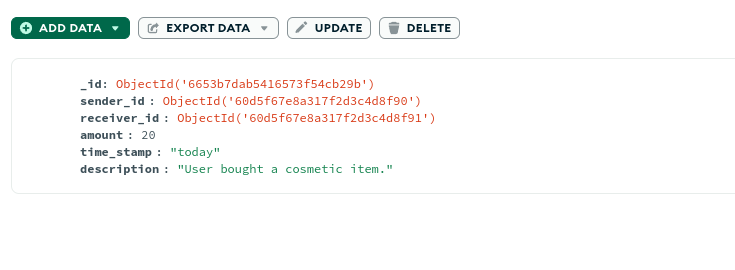
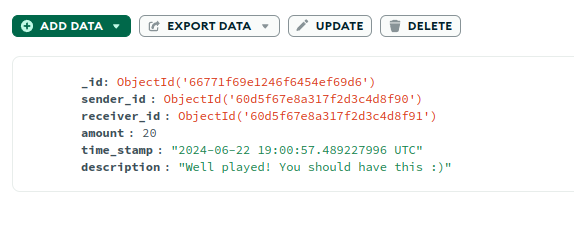
Development fase done

Changed region(s): [[0.0889, 0.487, 0.7997, 0.7609], [0.0889, 0.2739, 0.7404, 0.4565], [0.0, 0.0609, 0.7997, 0.1826]]

diff --git a/src/components/TimeLine/items/ontwikkelFase/transacionStruct.js b/src/components/TimeLine/items/ontwikkelFase/transacionStruct.js
@@ -7,12 +7,19 @@ const manager = new ItemManager;
 
 const paragraphs = [
     "De transaction service zal op zijn minst in staat moeten zijn om transacties aan te maken en op te halen.\
-    Het aanpassen en verwijderen van transacties is een andere kwestie.",
+    Het aanpassen en verwijderen van transacties is een andere kwestie. Hier zijn we al eerder op ingedoken bij \
+    'Analyse fase > Misuse case preventie'",
+    
     "De mogelijkheid om transacties aan te passen of zelfs helemaal te verwijderen zou de transactie geschiedenis \
     onbetrouwbaar maken. Mocht er echt een transactie zijn die verwijderd/aangepast moet worden, dan kan dit probleem ook \
     worden opgelost door een nieuwe transactie aan te maken.",
-    "Tot slot moet de transaction service ook in staat zijn een gebruiker zijn/haar huidige balans uit te rekenen aan \
-    de hand van de transactie geschiedenis."
+    
+    "Verder moet de transaction service ook in staat zijn een gebruiker zijn/haar huidige balans uit te rekenen aan \
+    de hand van de transactie geschiedenis. Alleen dan kan verzekerd worden dat gebruikers geen credits kunnen uitgeven \
+    die zij eigenlijk niet bezitten.",
+    
+    "Tot slot moet de transaction service alle verzoeken voor het maken van een nieuwe request controleren op de 'timestamp'. \
+    Zo kan verzekerd worden dat het zelfde request verzoek niet meerdere malen verstuurd kan worden.",
 ];
 
 const item = manager.createItemFromProps(

diff --git a/src/components/TimeLine/index.jsx b/src/components/TimeLine/index.jsx
@@ -15,6 +15,7 @@ import MogelijkeAanpassingen from './items/designFase/mogelijkeAanpassingen';
 import OntwikkelIntro from './items/ontwikkelFase/ontwikkelIntro';
 import TransactionStruct from './items/ontwikkelFase/transacionStruct';
 import TransactionDBEntry from './items/ontwikkelFase/transactionEntry';
+import TransactionPostModel from './items/ontwikkelFase/transactionPostModel';
 
 import TestingIntro from './items/testFase/intro';
 import UnitTesting from './items/testFase/unitTesting';
@@ -44,6 +45,7 @@ export default function TimeLine() {
         MogelijkeAanpassingen,
         OntwikkelIntro,
         TransactionStruct,
+        TransactionPostModel,
         TransactionDBEntry,
         
         TestingIntro,
@@ -68,7 +70,7 @@ export default function TimeLine() {
                 theme={{
                     primary: '#88D498',
                     secondary: '#1A936F',
-                    cardBgColor: 'white',
+                    cardBgColor: '#F5F5F5',
                     titleColor: '#C6DABF',
                     titleColorActive: '#F3E9D2',
                 }}

diff --git a/src/components/TimeLine/items/ontwikkelFase/transactionPostModel.js b/src/components/TimeLine/items/ontwikkelFase/transactionPostModel.js
@@ -1,0 +1,24 @@
+import ItemManager from "../itemManager";
+
+
+
+const manager = new ItemManager;
+
+const paragraphs = [
+    "Voor het aanmaken van een transactie wordt niet direct een http-verzoek gestuurd naar de backend-applicatie. \
+    Er wordt eerst een 'TransactionPostModel gebruikt, deze bezit nog geen timestamp en id om te voorkomen dat deze misbruikt \
+    kunnen worden om bijvoorbeeld een transactie uit te stellen tot 1000 jaar in de toekomst.",
+    "De timestamp wordt door de backend-applicatie automatisch gegenereerd wanneer de transactie gegevens valide zijn.",
+];
+
+const item = manager.createItemFromProps(
+    null, 
+    "'TransactionPostModel'", 
+    null, 
+    null, 
+    paragraphs, 
+    null, 
+    null
+);
+
+export default item;

diff --git a/src/components/TimeLine/items/ontwikkelFase/transactionEntry.js b/src/components/TimeLine/items/ontwikkelFase/transactionEntry.js
@@ -5,12 +5,18 @@ import TransactionDbEntry from '../../../../assets/transaction-db-entry.png';
 
 const manager = new ItemManager;
 
+const paragraphs = [
+    "De bovenstaande afbeelding toont een transactie-invoer in de MongoDB-database. \
+    Zoals zichtbaar worden UTC-timestamps opgeslagen als een string. Deze timestamp wordt gegenereerd in \
+    de backend-applicatie, zodat de gebruiker deze niet in zijn HTTP-verzoek kan instellen.",
+];
+
 const item = manager.createItemFromProps(
     null,
-    "A transaction entry in the MongoDB database.",
+    "Transaction in de MongoDB database.",
     null,
     null,
-    null,
+    paragraphs,
     TransactionDbEntry,
     null
 );
